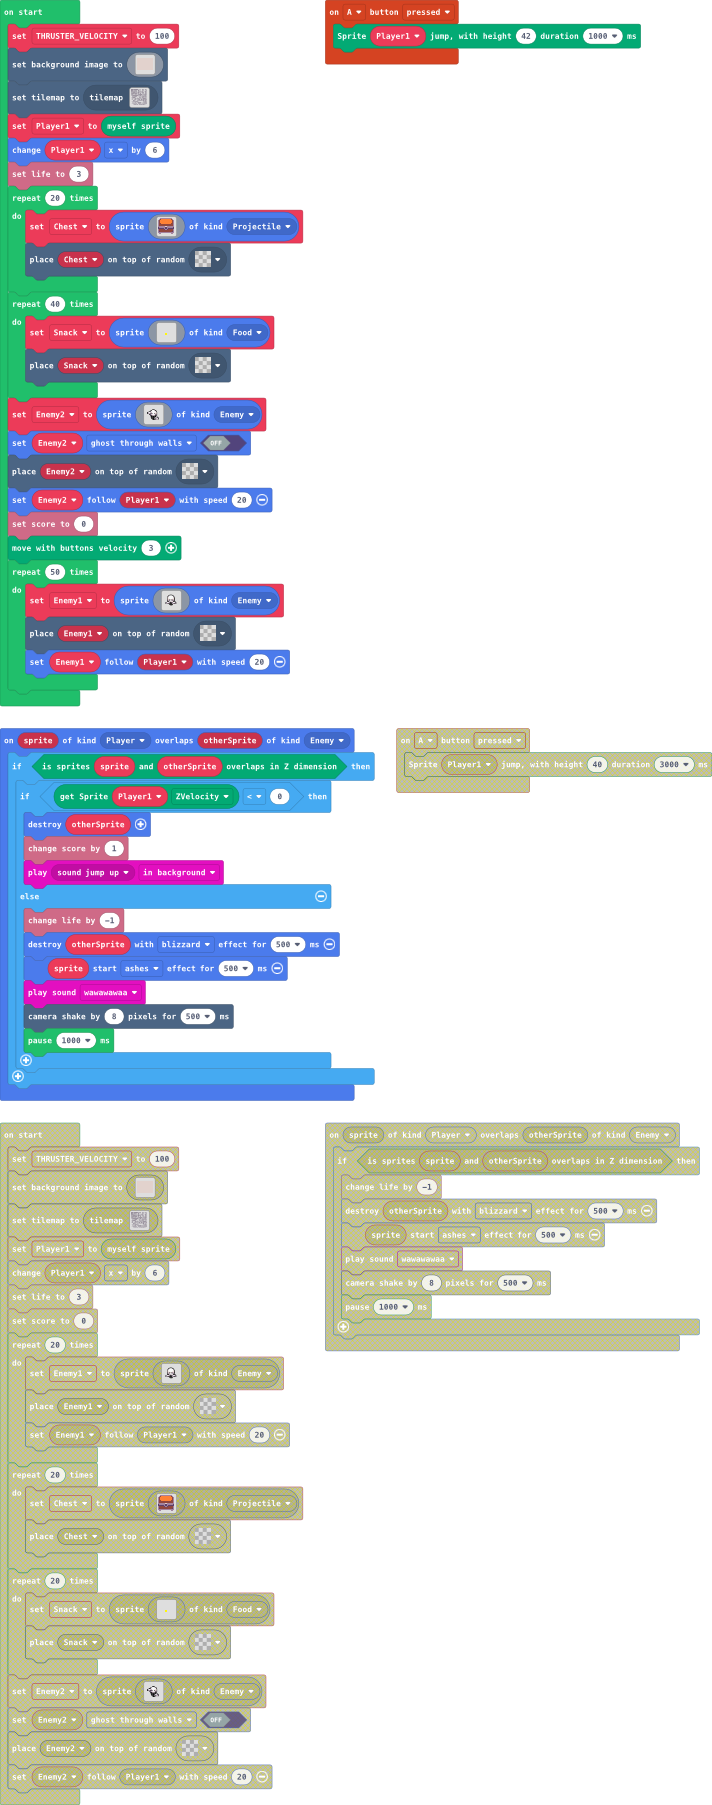
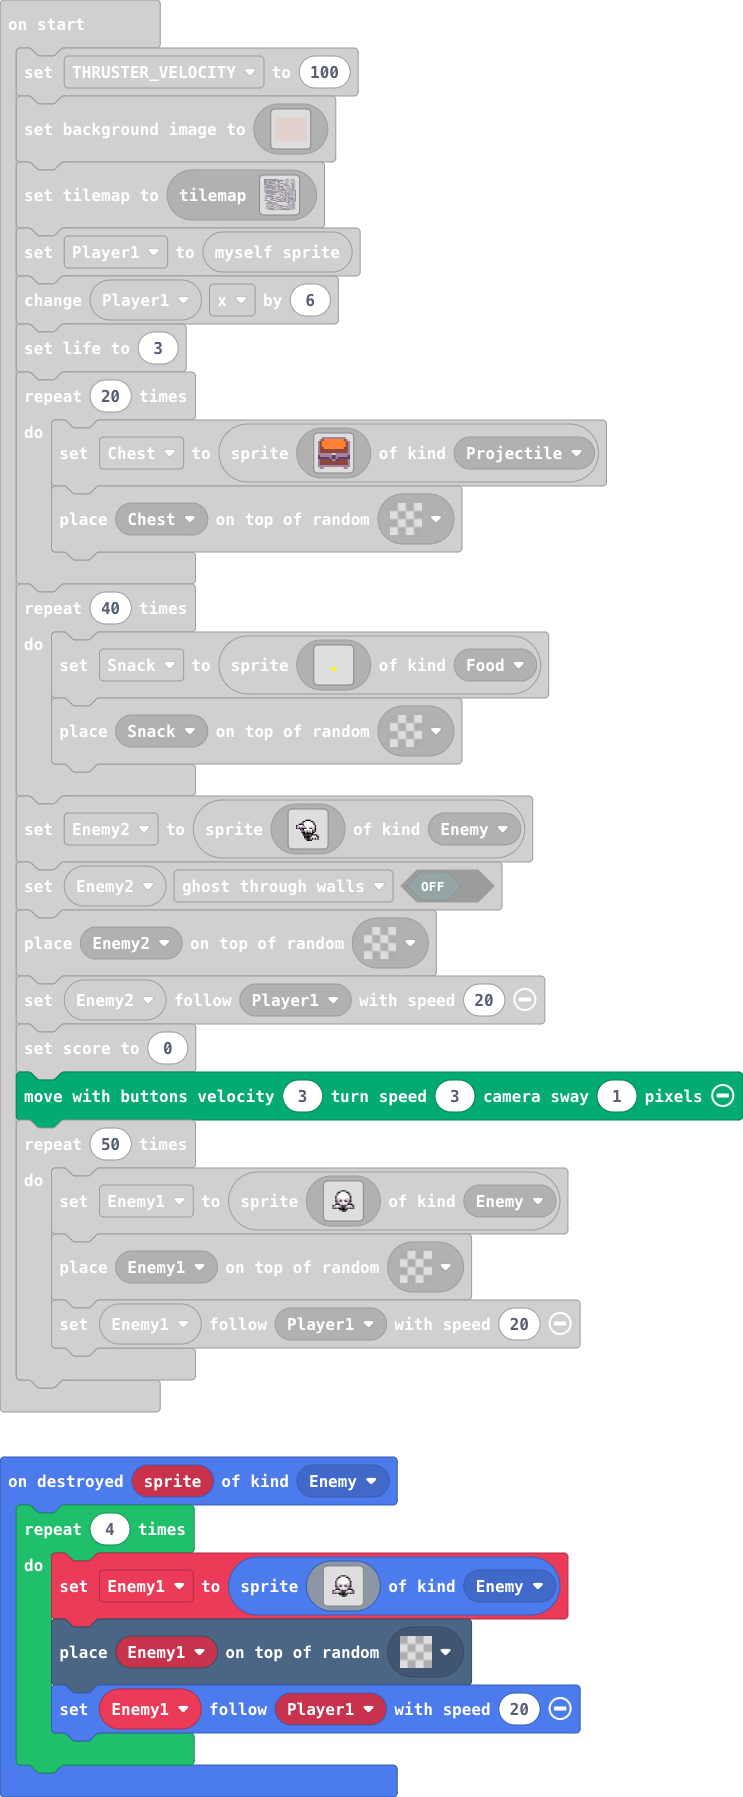
Update pxt.json, main.blocks, main.ts, tilemap.g.jres, tilemap.g.ts

diff --git a/main.ts b/main.ts
@@ -23,6 +23,38 @@ sprites.onOverlap(SpriteKind.Player, SpriteKind.Food, function (sprite, otherSpr
     otherSprite.destroy()
     info.changeScoreBy(1)
 })
+sprites.onDestroyed(SpriteKind.Enemy, function (sprite) {
+    for (let index = 0; index < 4; index++) {
+        Enemy1 = sprites.create(img`
+            ........................
+            ........................
+            ........................
+            ........................
+            ..........ffff..........
+            ........ff1111ff........
+            .......fb111111bf.......
+            .......f11111111f.......
+            ......fd11111111df......
+            ......fd11111111df......
+            ......fddd1111dddf......
+            ......fbdbfddfbdbf......
+            ......fcdcf11fcdcf......
+            .......fb111111bf.......
+            ......fffcdb1bdffff.....
+            ....fc111cbfbfc111cf....
+            ....f1b1b1ffff1b1b1f....
+            ....fbfbffffffbfbfbf....
+            .........ffffff.........
+            ...........fff..........
+            ........................
+            ........................
+            ........................
+            ........................
+            `, SpriteKind.Enemy)
+        tiles.placeOnRandomTile(Enemy1, assets.tile`transparency16`)
+        Enemy1.follow(Player1, 20)
+    }
+})
 sprites.onOverlap(SpriteKind.Player, SpriteKind.Enemy, function (sprite, otherSprite) {
     if (Render.isSpritesOverlapZ(sprite, otherSprite)) {
         if (Render.getSpriteAttribute(Player1, RCSpriteAttribute.ZVelocity) < 0) {
@@ -242,7 +274,7 @@ Enemy2.setFlag(SpriteFlag.GhostThroughWalls, false)
 tiles.placeOnRandomTile(Enemy2, assets.tile`transparency16`)
 Enemy2.follow(Player1, 20)
 info.setScore(0)
-Render.moveWithController(3)
+Render.moveWithController(3, 3, 1)
 for (let index = 0; index < 50; index++) {
     Enemy1 = sprites.create(img`
         ........................

diff --git a/tilemap.g.ts b/tilemap.g.ts
@@ -8,6 +8,8 @@ namespace myTiles {
     export const tile3 = image.ofBuffer(hex``);
     //% fixedInstance jres blockIdentity=images._tile
     export const tile2 = image.ofBuffer(hex``);
+    //% fixedInstance jres blockIdentity=images._tile
+    export const tile4 = image.ofBuffer(hex``);
 
     helpers._registerFactory("tilemap", function(name: string) {
         switch(helpers.stringTrim(name)) {
@@ -173,6 +175,8 @@ namespace myTiles {
             case "tile3":return tile3;
             case "myTile2":
             case "tile2":return tile2;
+            case "myTile1":
+            case "tile4":return tile4;
         }
         return null;
     })
